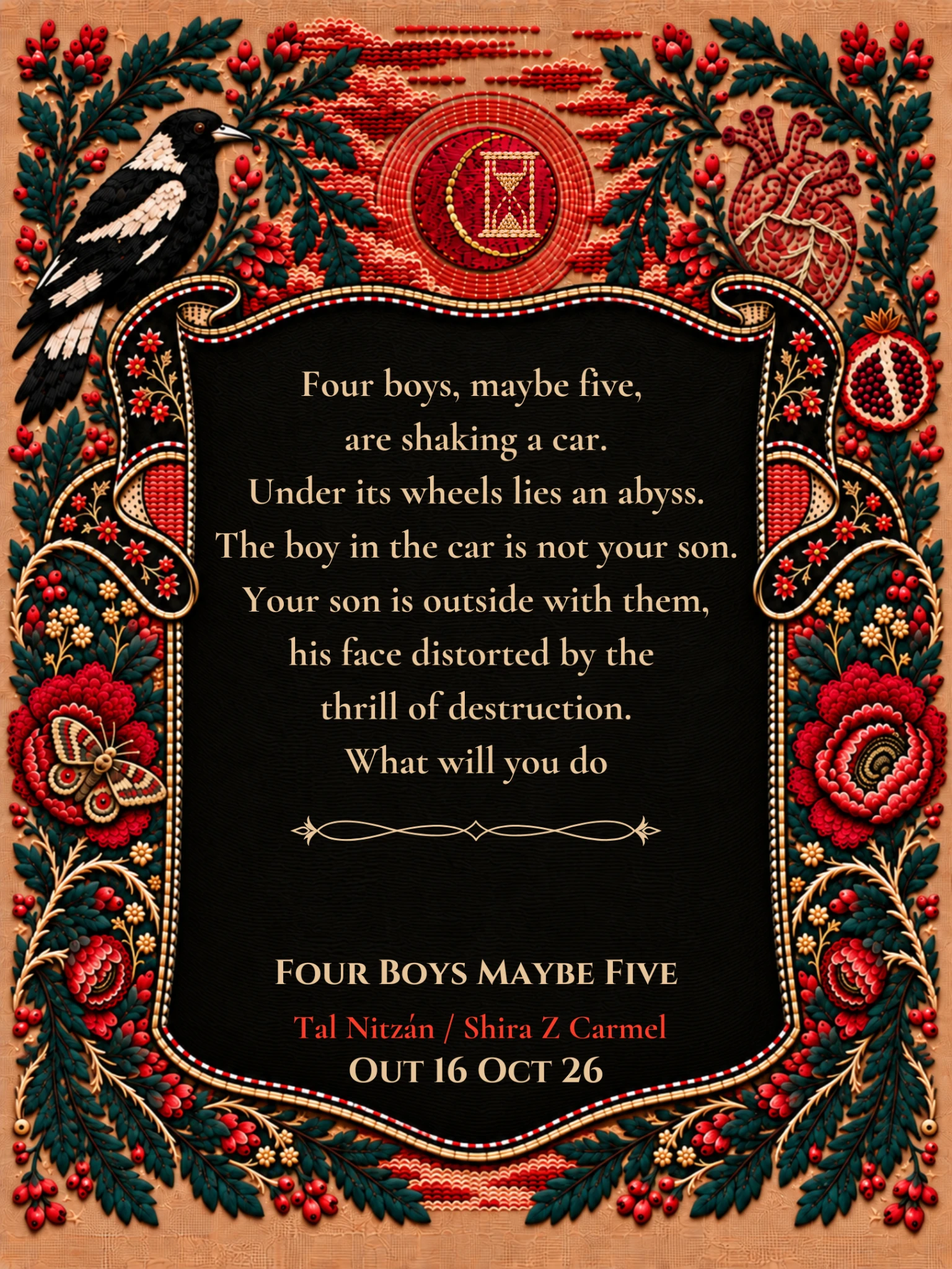
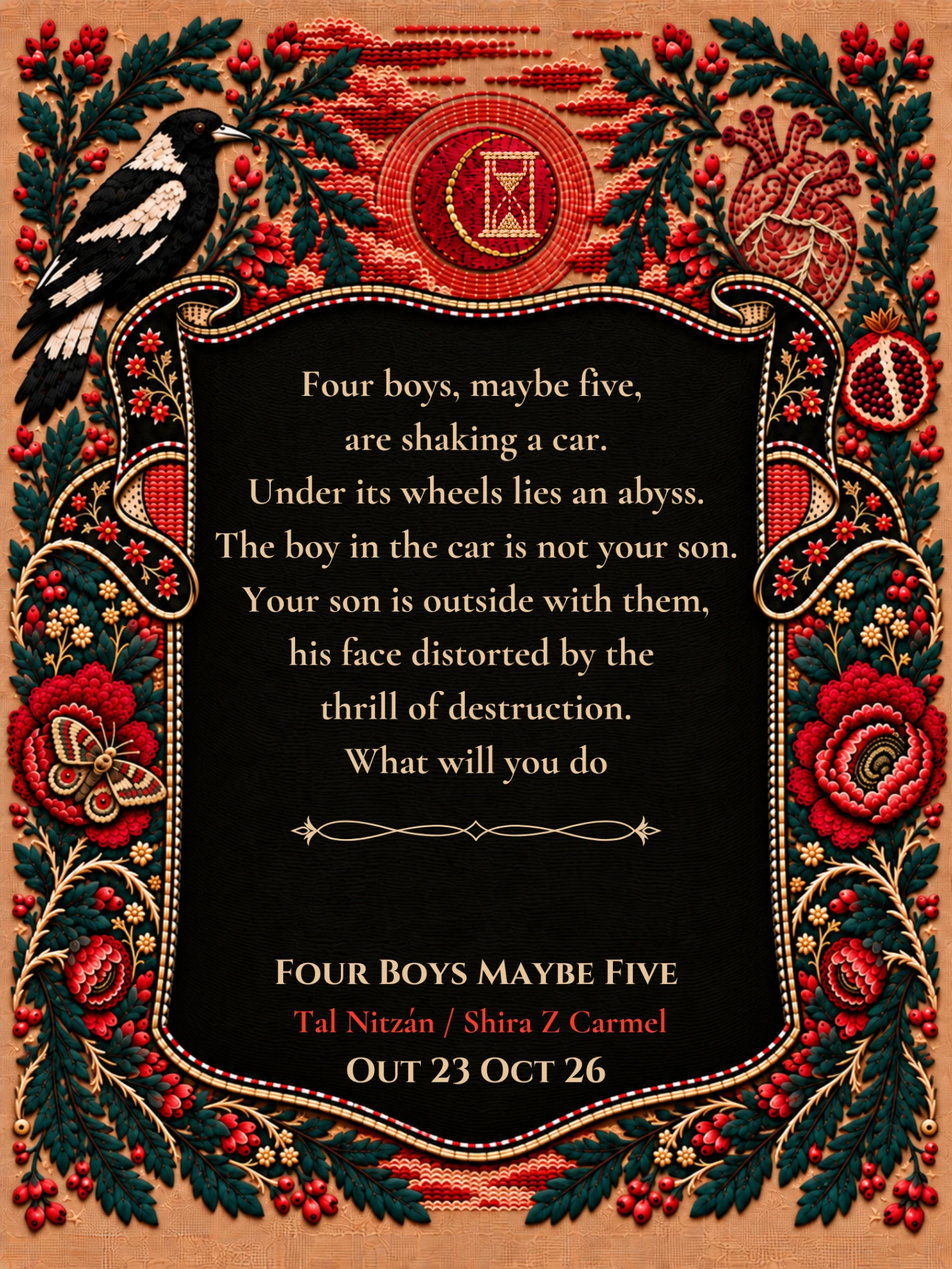
Replace lyric cards with updated 23 October release artwork

Changed region(s): [[0.3125, 0.7812, 0.6875, 0.875]]

diff --git a/index.html b/index.html
@@ -74,11 +74,11 @@
           <button class="poem-flip-card" type="button" aria-pressed="false" aria-label="Poem card, first perspective. Activate to change perspectives.">
             <span class="poem-flip-inner">
               <span class="poem-flip-face poem-flip-front">
-                <img src="assets/poem-card-one.webp" alt="">
+                <img src="assets/poem-card-one.webp?v=20261023" alt="">
                 <span class="sr-only">Four boys, maybe five, are shaking a car, their faces distorted by the thrill of destruction. Beneath its wheels lies an abyss. Inside the car is your son. The car tilts. Desolation all around, desolation within you and without trying you already know, no voice will emerge from your throat. What will you do?</span>
               </span>
               <span class="poem-flip-face poem-flip-back" aria-hidden="true">
-                <img src="assets/poem-card-two.webp" alt="">
+                <img src="assets/poem-card-two.webp?v=20261023" alt="">
                 <span class="sr-only">Four boys, maybe five, are shaking a car. Under its wheels lies an abyss. The boy in the car is not your son. Your son is outside with them, his face distorted by the thrill of destruction. What will you do?</span>
               </span>
             </span>
